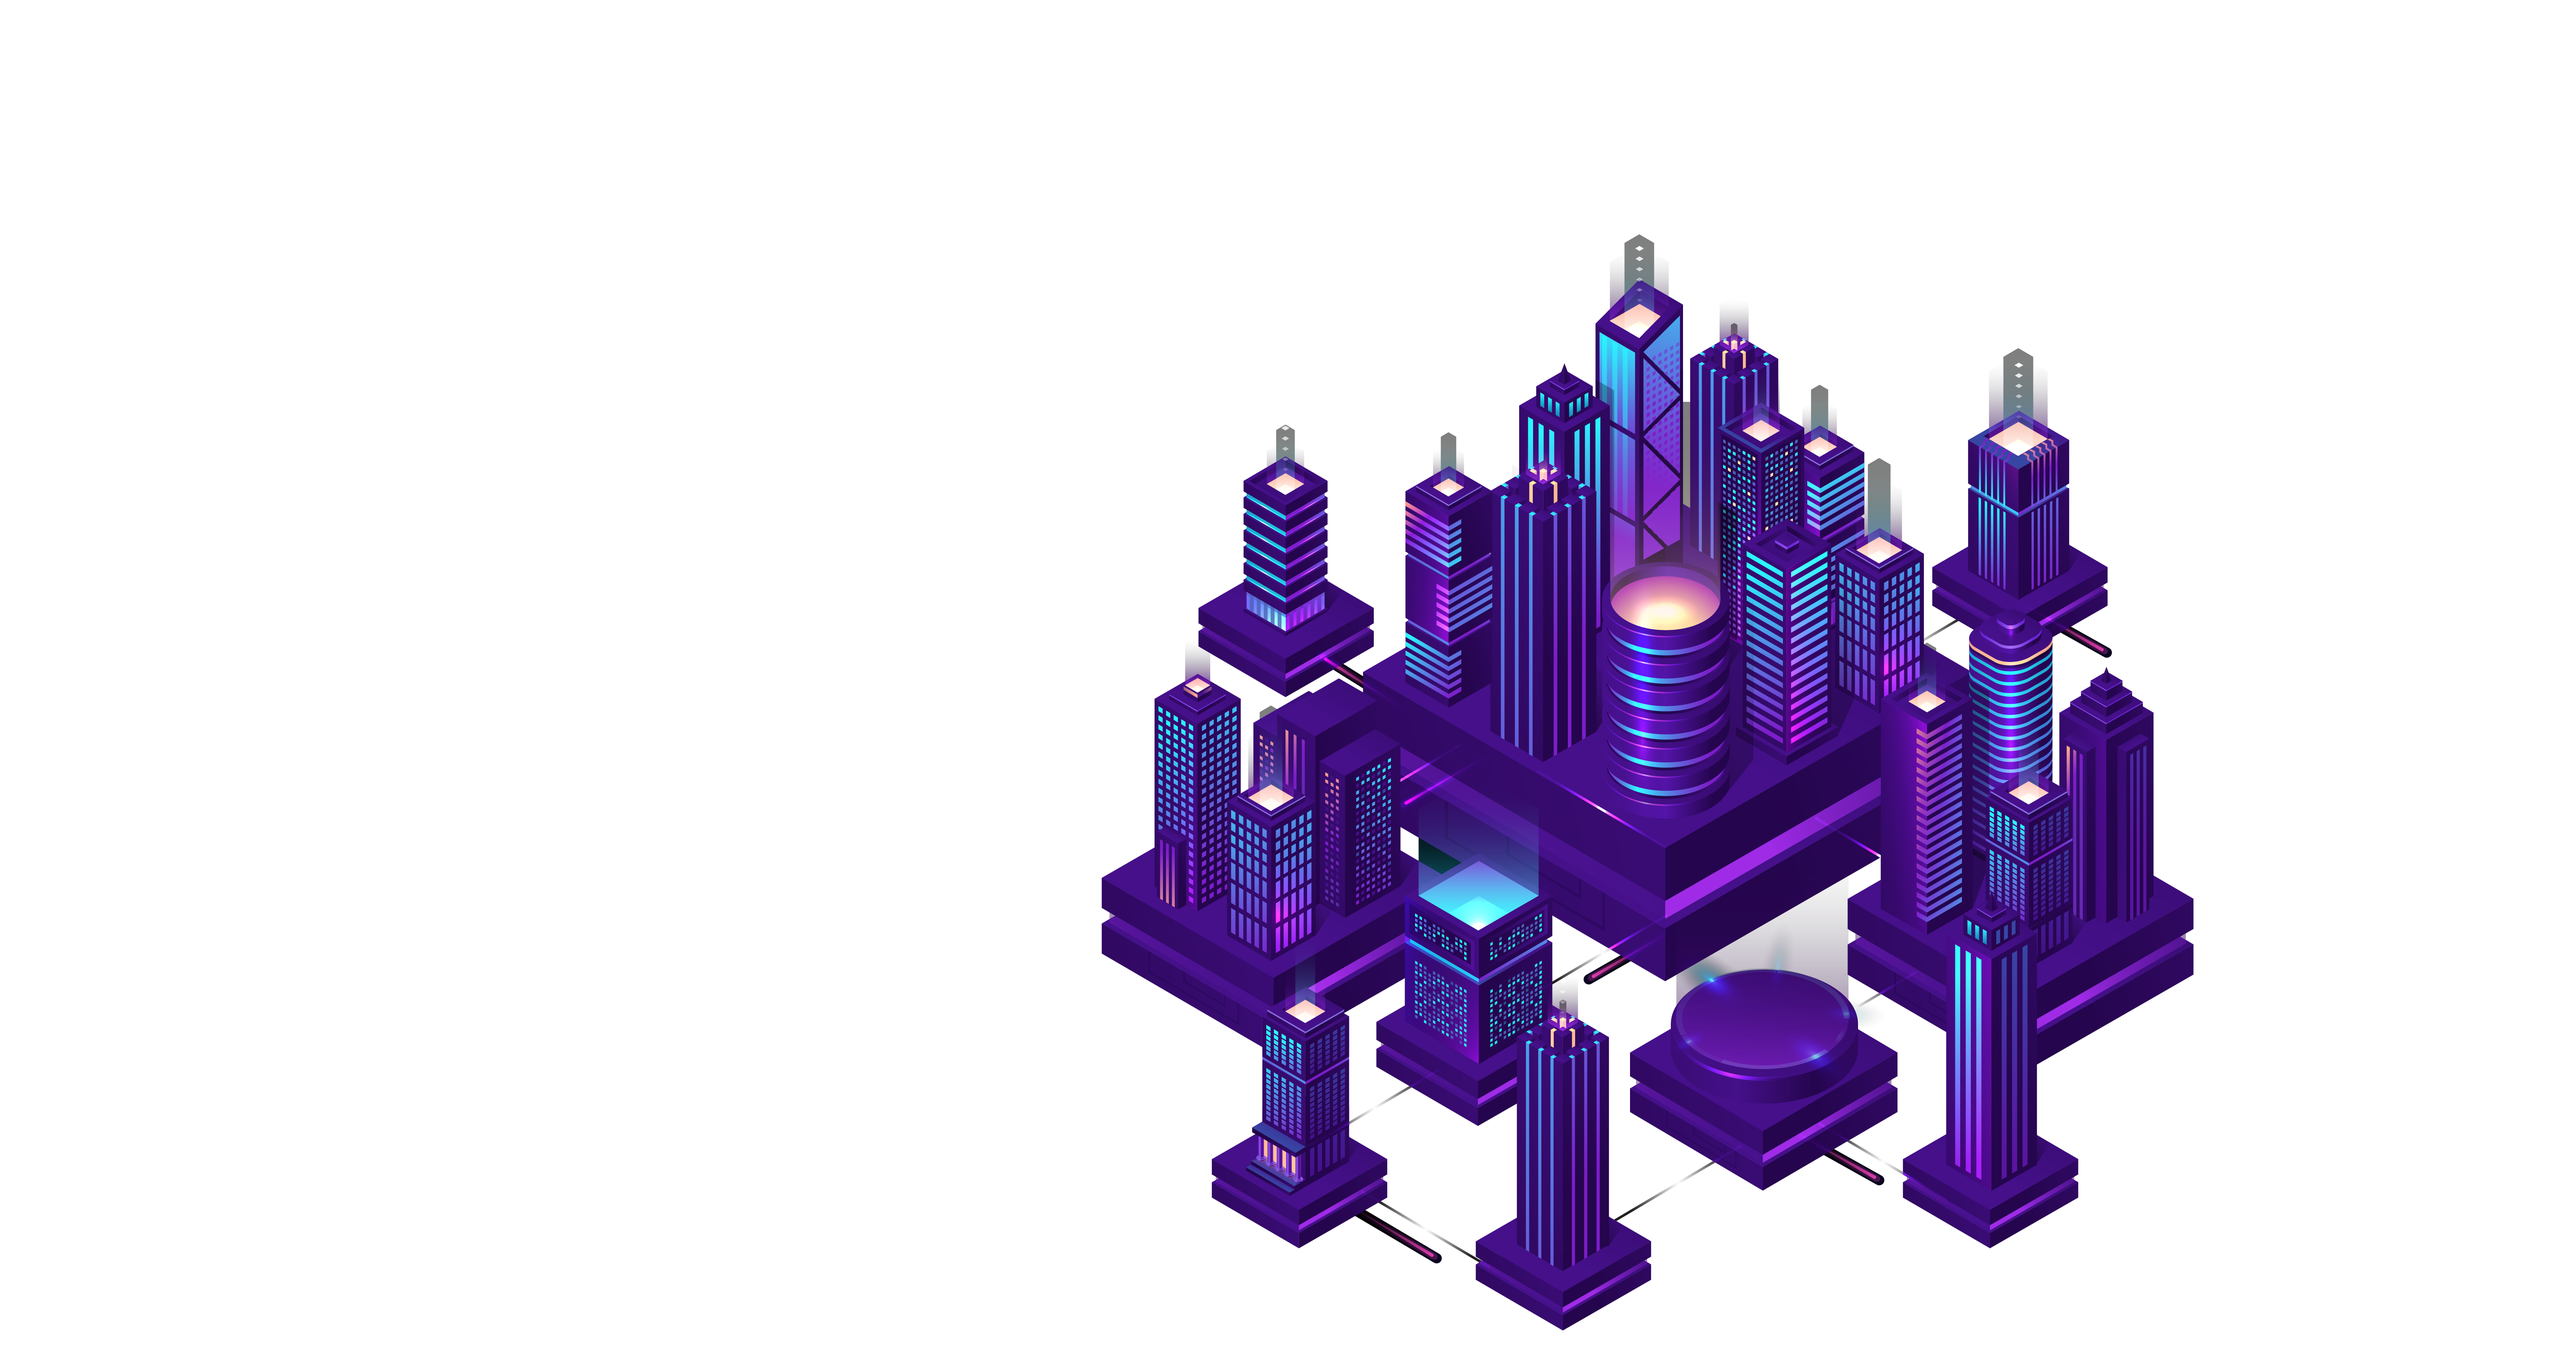
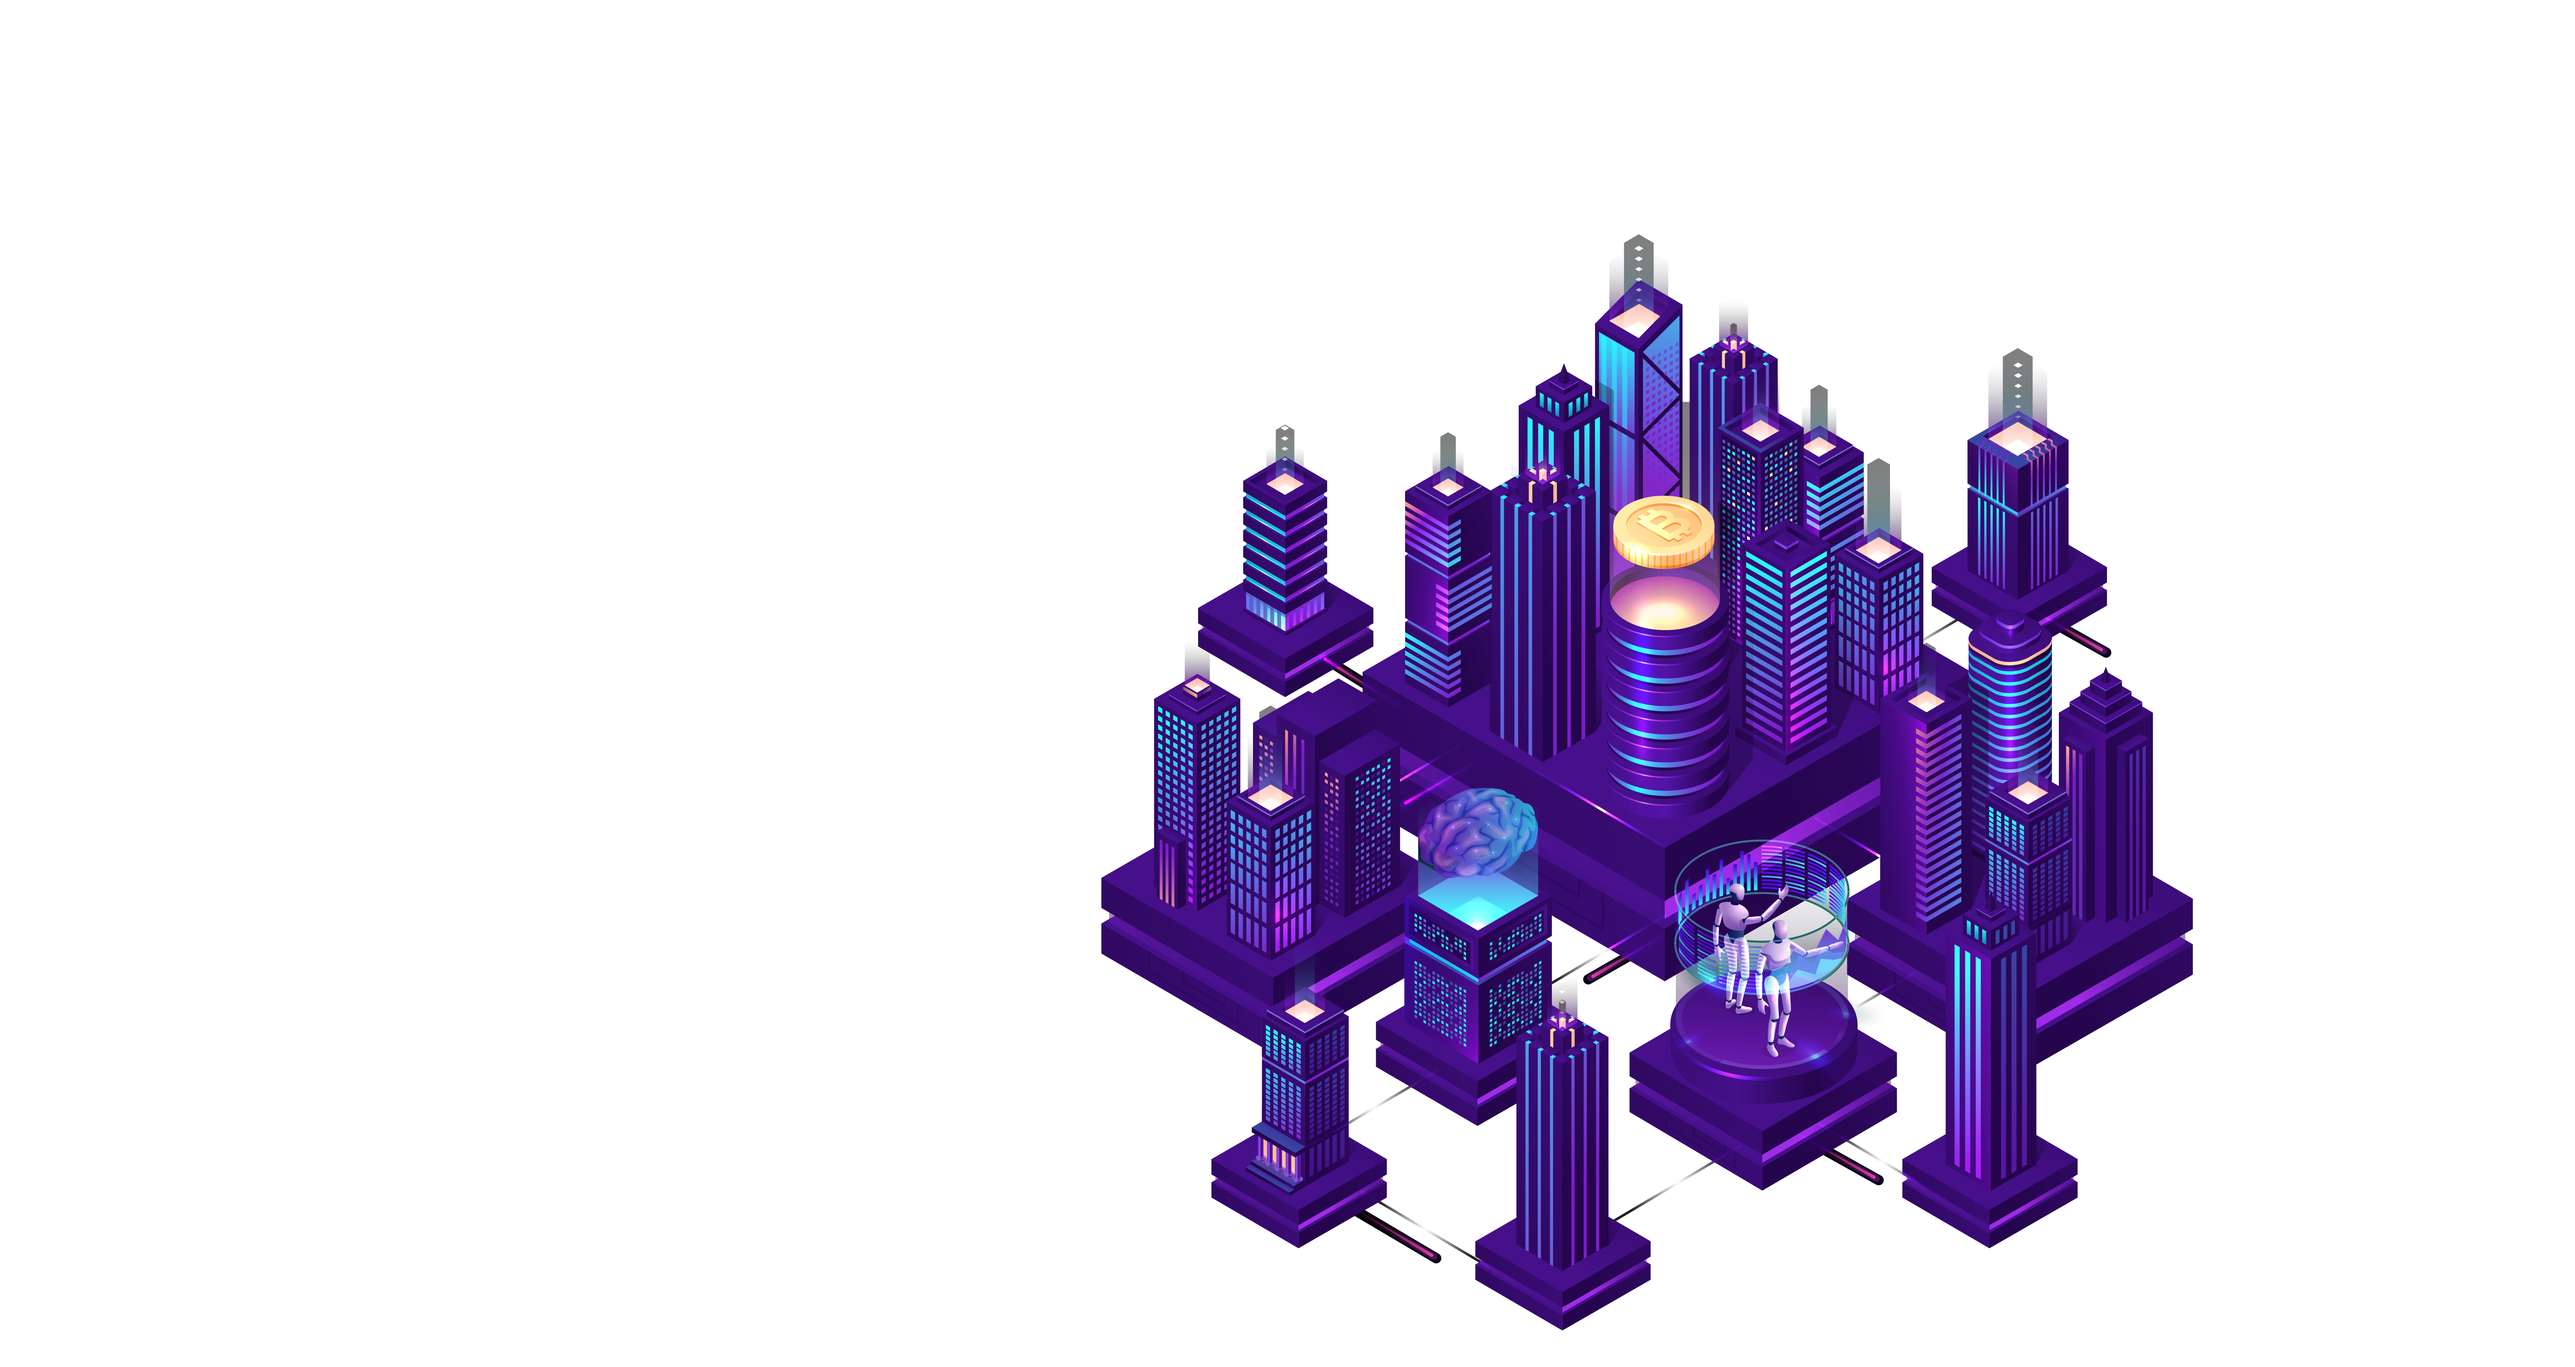
Updated Landing Image

diff --git a/src/partials/Landing.js b/src/partials/Landing.js
@@ -34,9 +34,6 @@ export default function Landing() {
         <div className="waves-wrapper">
           <div className="waves-container">
             <img src="assets/img/landing.png"  />
-            <img src="assets/img/landing-brain.png" className="landing-brain" />
-            <img src="assets/img/landing-bitcoin.png" className="landing-bitcoin" />
-            <img src="assets/img/landing-humans.png" className="landing-humans" />
             
             {/* <img
                 src="images/Graphic-Hero-Blur.jpg"
